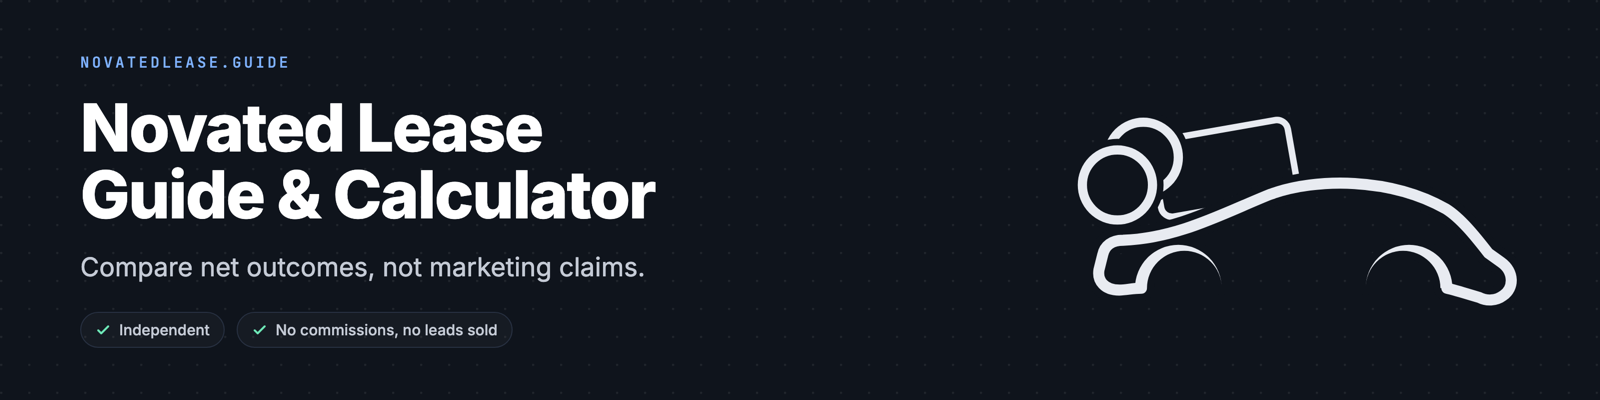
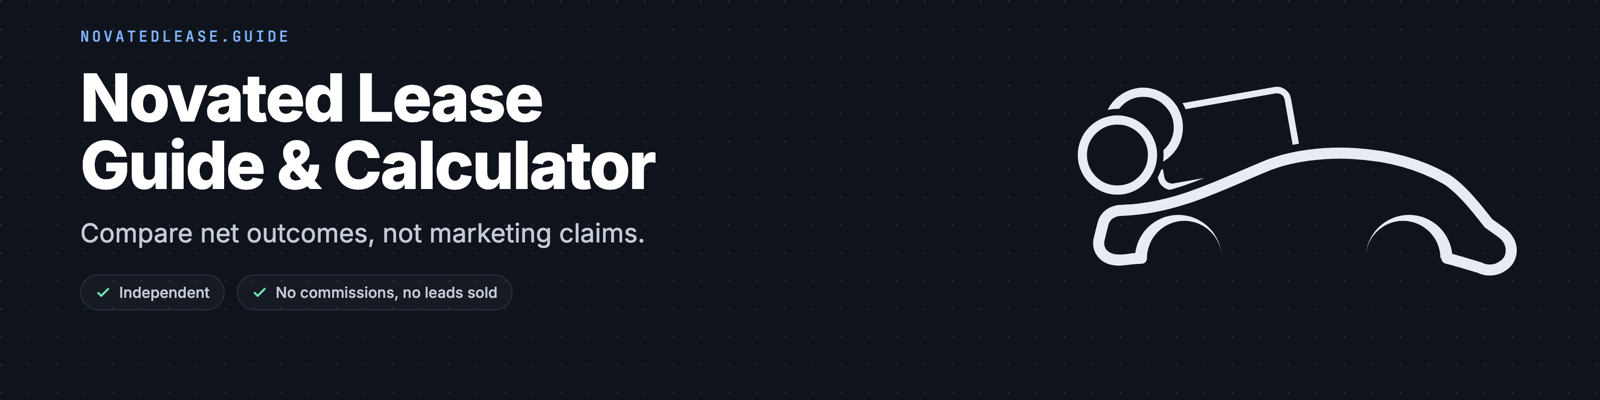
brand: lift cover text and mark clear of Buy Me a Coffee's card overlap
Claude-Session: https://claude.ai/code/session_01T3rab1GEarwRSHpx26Qd4D

diff --git a/new-site/brand/bmc-cover.dc.html b/new-site/brand/bmc-cover.dc.html
@@ -13,8 +13,8 @@
     a { color: #7fb2ff; } a:hover { color: #a9c9ff; }
   </style>
 </helmet>
-<div style="position: relative; width: 1600px; height: 400px; overflow: hidden; background-color: #0f141c; background-image: radial-gradient(circle at 1px 1px, rgba(255,255,255,0.07) 1px, transparent 1.5px); background-size: 28px 28px; color: #e8ebf1; box-sizing: border-box; display: flex; flex-direction: row; align-items: center; justify-content: space-between; padding: 0 88px 0 80px;">
-  <div style="display: flex; flex-direction: column; gap: 22px; max-width: 860px;">
+<div style="position: relative; width: 1600px; height: 400px; overflow: hidden; background-color: #0f141c; background-image: radial-gradient(circle at 1px 1px, rgba(255,255,255,0.07) 1px, transparent 1.5px); background-size: 28px 28px; color: #e8ebf1; box-sizing: border-box; display: flex; flex-direction: row; align-items: flex-start; justify-content: space-between; padding: 26px 88px 0 80px;">
+  <div style="display: flex; flex-direction: column; gap: 18px; max-width: 860px;">
     <div style="font-family: 'JetBrains Mono', 'Fira Code', monospace; font-size: 15px; font-weight: 500; letter-spacing: 0.18em; text-transform: uppercase; color: #7fb2ff;">novatedlease.guide</div>
     <div style="font-size: 66px; font-weight: 800; line-height: 1.02; letter-spacing: -0.025em; color: #ffffff; text-wrap: balance;">Novated Lease Guide &amp; Calculator</div>
     <div style="font-size: 26px; font-weight: 400; line-height: 1.3; color: #c5cbd6;">Compare net outcomes, not marketing claims.</div>
@@ -29,7 +29,7 @@
       </div>
     </div>
   </div>
-  <svg style="position: absolute; right: 80px; bottom: 60px; pointer-events: none;" width="480" height="240" viewBox="0 0 520 260" fill="none" xmlns="http://www.w3.org/2000/svg" aria-hidden="true">
+  <svg style="position: absolute; right: 80px; bottom: 90px; pointer-events: none;" width="480" height="240" viewBox="0 0 520 260" fill="none" xmlns="http://www.w3.org/2000/svg" aria-hidden="true">
   <g transform="translate(200 74) rotate(-10)">
     <rect x="-75" y="-42" width="150" height="84" rx="12" stroke="#e8ebf1" stroke-width="7"></rect>
   </g>

diff --git a/new-site/brand/bmc-cover.html b/new-site/brand/bmc-cover.html
@@ -13,8 +13,8 @@
     a { color: #7fb2ff; } a:hover { color: #a9c9ff; }
   </style>
 
-<div style="position: relative; width: 1600px; height: 400px; overflow: hidden; background-color: #0f141c; background-image: radial-gradient(circle at 1px 1px, rgba(255,255,255,0.07) 1px, transparent 1.5px); background-size: 28px 28px; color: #e8ebf1; box-sizing: border-box; display: flex; flex-direction: row; align-items: center; justify-content: space-between; padding: 0 88px 0 80px;">
-  <div style="display: flex; flex-direction: column; gap: 22px; max-width: 860px;">
+<div style="position: relative; width: 1600px; height: 400px; overflow: hidden; background-color: #0f141c; background-image: radial-gradient(circle at 1px 1px, rgba(255,255,255,0.07) 1px, transparent 1.5px); background-size: 28px 28px; color: #e8ebf1; box-sizing: border-box; display: flex; flex-direction: row; align-items: flex-start; justify-content: space-between; padding: 26px 88px 0 80px;">
+  <div style="display: flex; flex-direction: column; gap: 18px; max-width: 860px;">
     <div style="font-family: 'JetBrains Mono', 'Fira Code', monospace; font-size: 15px; font-weight: 500; letter-spacing: 0.18em; text-transform: uppercase; color: #7fb2ff;">novatedlease.guide</div>
     <div style="font-size: 66px; font-weight: 800; line-height: 1.02; letter-spacing: -0.025em; color: #ffffff; text-wrap: balance;">Novated Lease Guide &amp; Calculator</div>
     <div style="font-size: 26px; font-weight: 400; line-height: 1.3; color: #c5cbd6;">Compare net outcomes, not marketing claims.</div>
@@ -29,7 +29,7 @@
       </div>
     </div>
   </div>
-  <svg style="position: absolute; right: 80px; bottom: 60px; pointer-events: none;" width="480" height="240" viewBox="0 0 520 260" fill="none" xmlns="http://www.w3.org/2000/svg" aria-hidden="true">
+  <svg style="position: absolute; right: 80px; bottom: 90px; pointer-events: none;" width="480" height="240" viewBox="0 0 520 260" fill="none" xmlns="http://www.w3.org/2000/svg" aria-hidden="true">
   <g transform="translate(200 74) rotate(-10)">
     <rect x="-75" y="-42" width="150" height="84" rx="12" stroke="#e8ebf1" stroke-width="7"></rect>
   </g>
